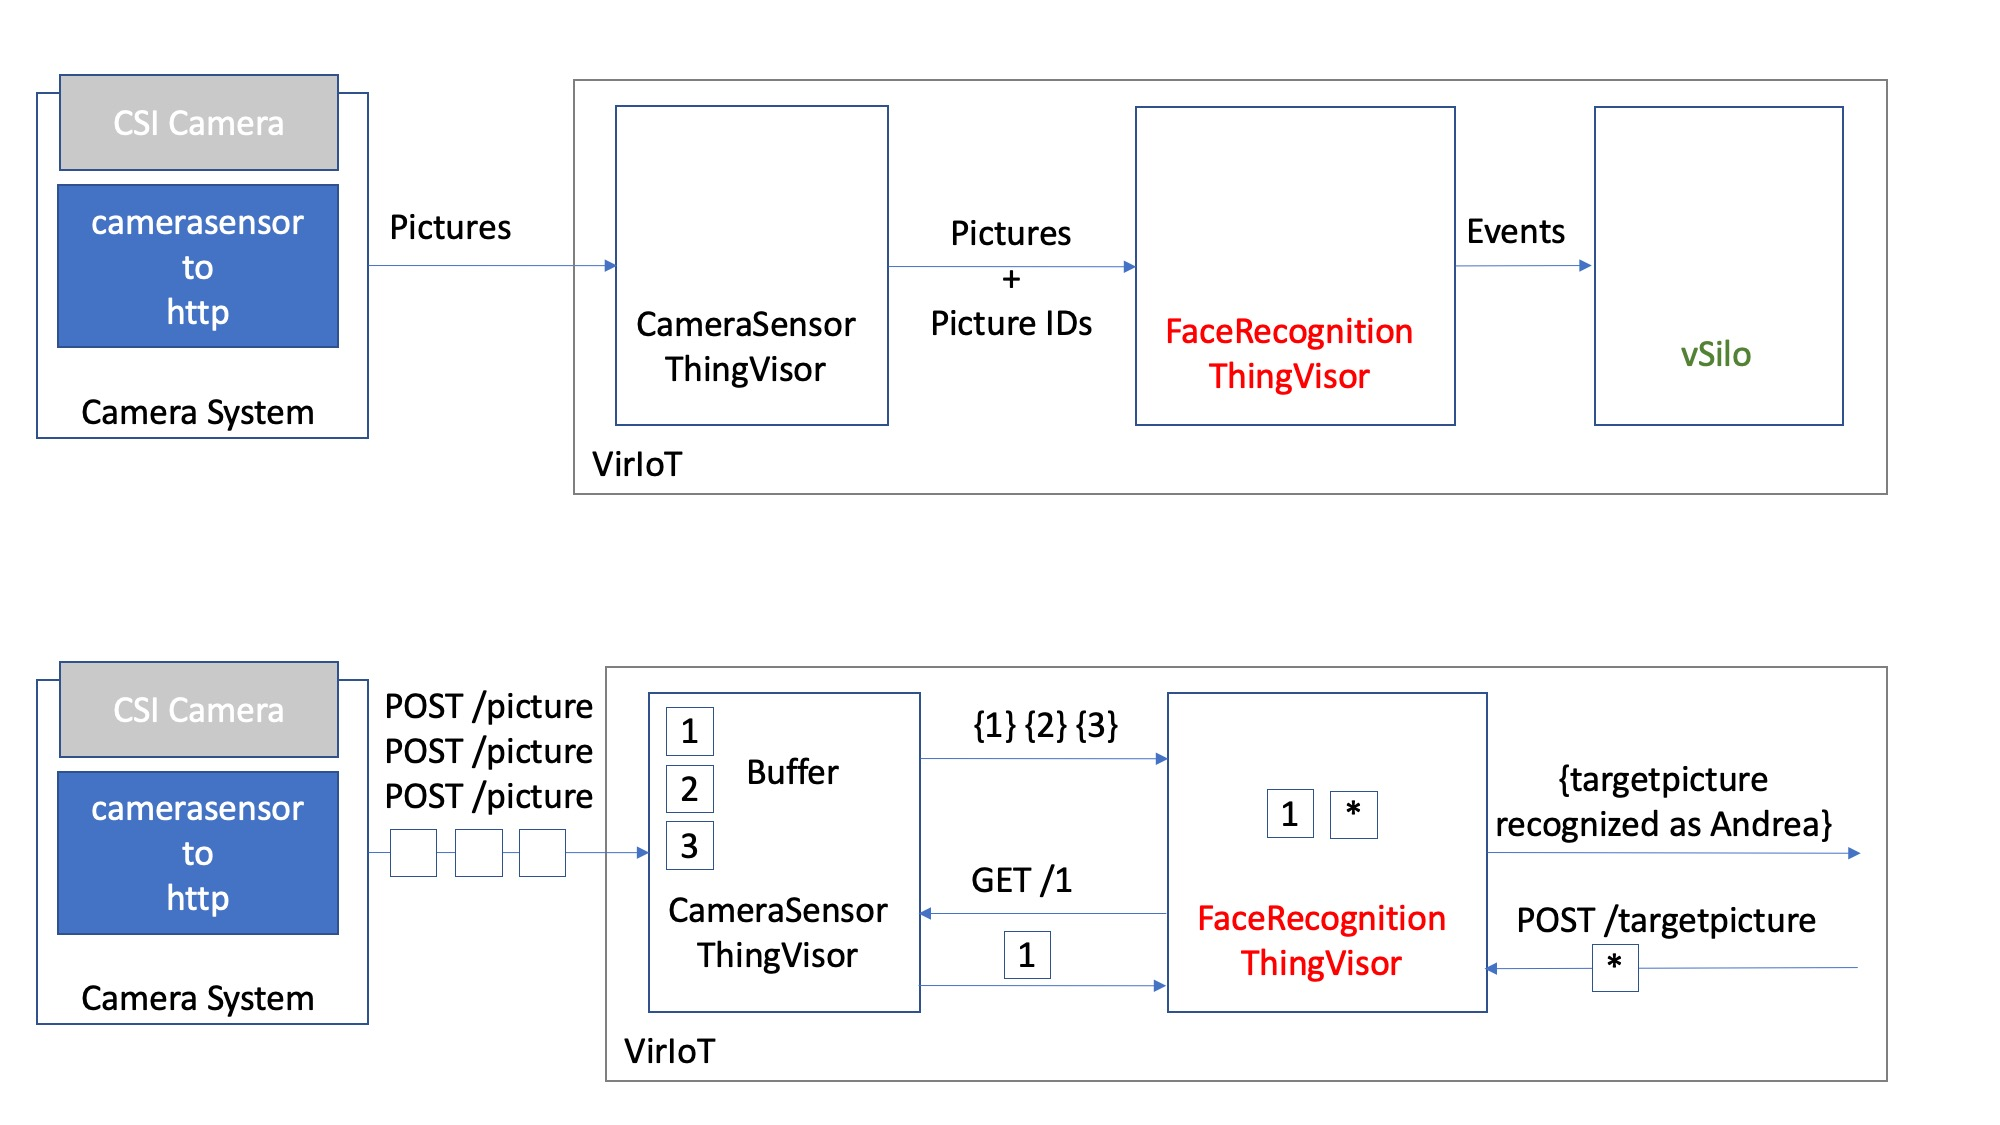
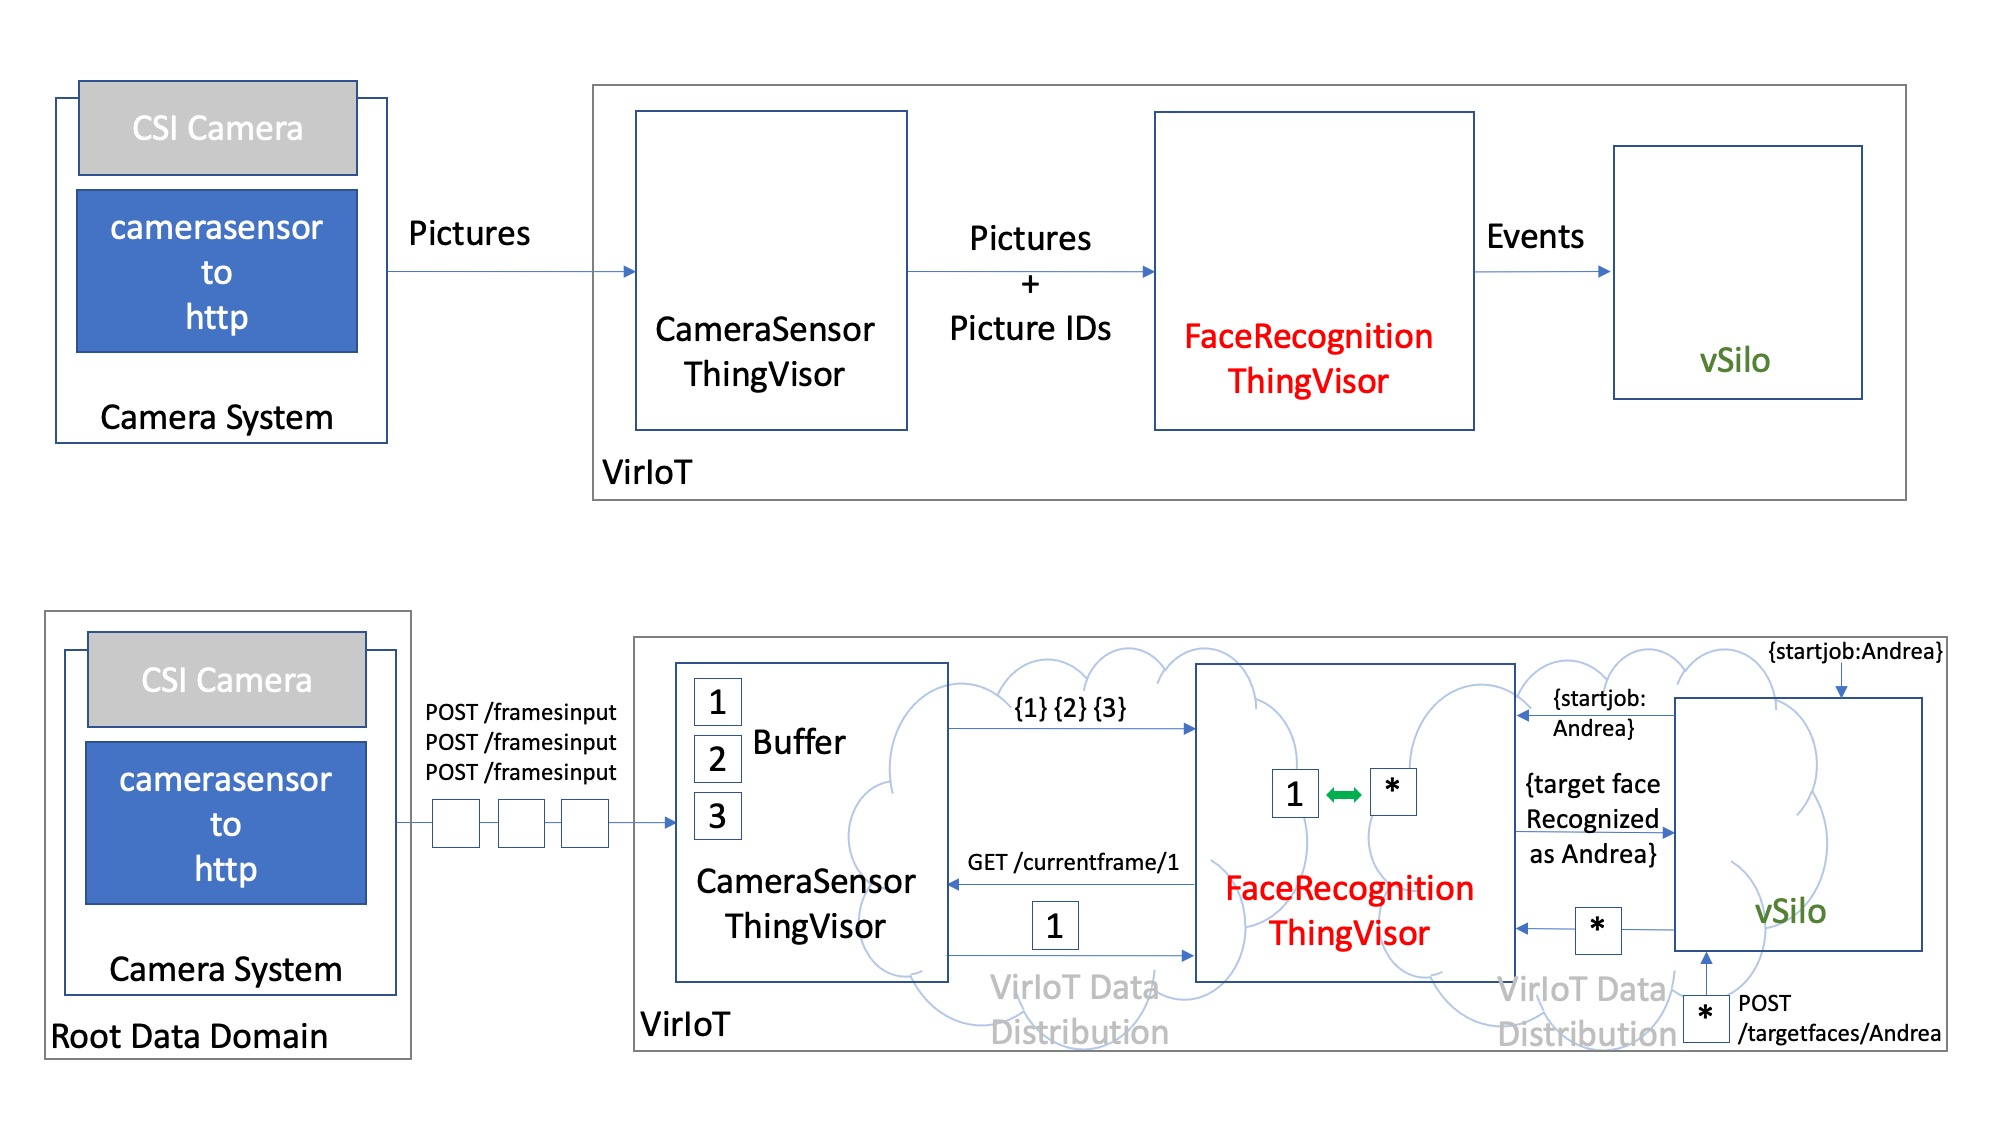
updated both picture of facerec and readme

diff --git a/Thingvisors/DockerThingVisor/ThingVisor_FaceRecognition/README.md b/Thingvisors/DockerThingVisor/ThingVisor_FaceRecognition/README.md
@@ -6,9 +6,13 @@ This ThingVisor allows to do face recognition with a camera system, and to virtu
 
 The following picture shows the face recognition architecture, which comprises the Camera System, the CameraSensor ThingVisor and the FaceRecognition ThingVisor.
 
+Overall, the Camera System sends to the CameraSensor TV every new video frame it captures from the Camera. The CameraSensor TV buffers the video frames and gives them unique identifiers. Whenever the FaceRecognition TV is ready to process a new video frame, it gets it by name, asking it to the CameraSensor TV. The FaceRecognition TV processes the frame by comparing it to a target picture of a person. If a match is found, an event is sent from the FaceRecognition TV to a vSilo (that hosts the IoT Broker and talks to an external Application).
+
+Users do not interact directly with the FaceRecognition ThingVisor. The whole process is driven via the User's vSilo, instead, as usual in VirIoT. Users POST target faces (to be matched) to the HTTP Broker running inside the vSilo. Moreover, they can act (using the usual VirIoT's actuation workflow) upon the face recognition process by starting (or deleting) a specific job recognition process, identifying it by name (of a target person, for example, or whatever name they assign to the job, "Andrea" in the picture below).
+
 ![Face Recognition architecture](facerec.jpg)
 
-Overall, the Camera System sends to the CameraSensor TV every new video frame it captures from the Camera. The CameraSensor TV buffers the video frames and gives them unique identifiers. Whenever the FaceRecognition TV is ready to process a new video frame, it gets it by name, asking it to the CameraSensor TV. The FaceRecognition TV processes the frame by comparing it to a target picture of a person. If a match is found, an event is sent from the FaceRecognition TV to a vSilo (that hosts the IoT Broker and talk to an external Application).
+The purpose of having the CameraSensor ThingVisor in between the Camera System and the FaceRecognition is that, in principle, several different ThingVisors, performing diverse tasks such as face recognition, object recognition, motion detection, etc..., can attach to the CameraSensor ThingVisor. They will act as downstream processors, each fetching a copy of the same video frame for different purposes. This avoids each processor fetching a separate copy of the current video frame from the Camera System, thus avoiding redundant network traffic from the Root Data Domain (where the Camera System lives) into VirIoT. Moreover, VirIoT's HTTP Data Distribution System is operating in between the upstream CameraSensor and the downstream ThingVisors, transparently caching all HTTP requests and responses, so that ThingVisors (and vSilos) that are requesting the same picture (by id) from the CameraSensor, will efficiently get it from the closest proxy.
 
 More specifically:
 
@@ -16,9 +20,9 @@ More specifically:
 
 - Connects to a CSI (Camera Serial Interface) Camera. The current implementation uses CV2 to capture video from a camera attached to a Jetson Nano board. 
 - Undistorts, compresses to jpeg, and scales down each video frame.
-- Sends each new video frame to the CameraSensor TV via HTTP POST.
+- Sends each new video frame to the CameraSensor TV via an HTTP POST request to the TV's ``/framesinput`` API.
 
-The Camera System is currently implemented as a python script responsible for compression and HTTP communication, which is called [camerasensor-to-http.py](../ThingVisor_CameraSensor/jetbot_scripts/camerasensor-to-http.py). It imports a python module, which is responsible for video capture, and is called [camera_mod.py](../ThingVisor_CameraSensor/jetbot_scripts/camera_mod.py). Both can be found in the scripts folder of the CameraSensor TV.
+The Camera System is currently implemented as a python script responsible for compression and HTTP communication, which is called [camerasensor-to-http.py](../ThingVisor_CameraSensor/jetbot_scripts/camerasensor-to-http.py). It, in turn, imports a python module, which is responsible for video capture, and is called [camera_mod.py](../ThingVisor_CameraSensor/jetbot_scripts/camera_mod.py). Both can be found in the scripts folder of the CameraSensor TV.
 
 ### The CameraSensor ThingVisor
 - Offers a REST interface to receive video frames, via HTTP POST.
@@ -32,25 +36,23 @@ The Camera System is currently implemented as a python script responsible for co
   $ echo {\"observedAt\":\"02-02-2021 14:34\"} > metadata.json
   $ curl -F "file=@currentframe.jpg" -F "json=@metadata.json" http://<CAMERASENSORTV_PUBLIC_IP>:<PORT_MAPPED_TO_5000>/framesinput
   ```
-- Buffers a certain (configurabile) amount of video frames, FIFO style, and it gives unique identifiers to them, upon arrival of each new frame.
-
-  The default size of the video buffer is 20, and it holds the jpeg compressed pictures in memory.
+- Buffers a certain (configurabile) amount of video frames, FIFO style, and it gives unique identifiers to them, upon arrival of each new frame. It buffers the jpeg compressed pictures in memory.
   
-  The size of the buffer is a configurabile parameter of the ThingVisor. It can be specified at creation time, when the TV is added to VirIoT, as in the following example, where a TV is added using the yaml that specifies a CameraSensor, the name "camerasensor-tv" is given to it, and the "buffersize" parameter is set to 30.
+  The size of the buffer is a configurabile parameter of the ThingVisor, named ``buffersize``. The default size of the video buffer is ``20``. It can be specified at creation time, when the TV is added to VirIoT, as in the following example, where a TV is added using the yaml that specifies a CameraSensor, the name "camerasensor-tv" is given to it, and the ``buffersize`` parameter is set to ``30``.
 
   ```bash
   $ f4i.py add-thingvisor -y ../yaml/thingVisor-cameraSensor-http.yaml -n camerasensor-tv -d "camera frames via http" -p '{"buffersize":30}' -z default
   ```
 
-  Alternatively, by using the update-thingvisor VirIoT command on a running TV, the "buffersize" parameter can be changed in real-time, as follows:
+  Alternatively, by using the update-thingvisor VirIoT command on a running instance of the TV, the ``buffersize`` parameter can be changed in real-time, as follows:
 
   ```bash
   $ f4i.py update-thingvisor -n camerasensor-tv -p '{"buffersize":40}'
   ```
 
-- Emits an event, representing context information about the video frame, in the form of a NGSI-LD Entity containing the picture's identifier, upon arrival of each new frame.
+- Offers a single vThing, named "sensor". This vThing, upon arrival of each new frame, emits an event representing context information about the received video frame, in the form of a NGSI-LD Entity containing the picture's identifier.
 
-  The NGSI-LD Entity emitted at each frame arrival is in "neutral format", as follows (assuming the ThingVisor's name is "camerasensor-tv"): each event/entity is of type "NewFrameEvent" and it has just one Property, named "frameIdentifier". The information about the timestamp of the video frame is dropped, as of now, since it is not needed for face recognition purposes.
+  The NGSI-LD Entity emitted at each frame arrival is represented in NGSI-LD "neutral format" (assuming the ThingVisor's name is "camerasensor-tv") by entity of type "NewFrameEvent". It has just one Property, named "frameIdentifier". The information about the timestamp of the video frame is dropped, as of now, since it is not needed for face recognition purposes. Here follows an example:
   ```
   {
     id : urn:ngsi-ld:camerasensor-tv:sensor
@@ -70,3 +72,115 @@ The Camera System is currently implemented as a python script responsible for co
   ```bash
   $ curl --output videoframe.jpg http://<CAMERASENSORTV_PUBLIC_IP>:<PORT_MAPPED_TO_5000>/currentframe/1623229264110-0
   ```
+
+### The FaceRecognition ThingVisor
+- It is designed so that it "chains" to an upstream "sensor" vThing implemented by a CameraSensor ThingVisor: upon chaining, it subscribes to Entities coming from the upstream CameraSensor's "sensor" vThing. Such Entities convey the identifiers of a stream of video frames buffered by the CameraSensor. FaceRecognition GETs the new frames at its convenience (thus operating at its own framerate, ususally different than the framerate the video frames are produced by the Camera System).
+
+  The rate that FaceRecognition uses to get frames from CameraSensor is a configurabile parameter of the TV, named ``fps``. Its default value is ``2``.
+
+  The name of the upstream vThing to chain to is a configurabile parameter as well, named ``upstream_vthingid``. By default, at startup, if no upstream vThing of a CameraSensor is specified, the FaceRecognition TV sits idle, waiting for an update command to specify it.
+
+  Both parameters can be specified at creation time, when the TV is added to VirIoT, as in the following example, where a TV is added using the yaml that specifies a FaceRecognition, the name "facerecognition-tv" is given to it, the ``upstream_vthingid`` parameter is set to ``camerasensor-tv/sensor`` (as it represents a vThing identifier, which in VirIoT is composed of ThingVisorName/vThingName), and the ``fps`` parameter is set to ``12``.
+
+  ```bash
+  $ f4i.py add-thingvisor -y ../yaml/thingVisor-faceRecognition.yaml -n "facerecognition-tv" -d "recognizes faces" -p '{"fps":12, "upstream_vthingid":"camerasensor-tv/sensor"}' -z default
+  ```
+
+  Alternatively, by using the update-thingvisor VirIoT command on a running instance of the TV, both parameters (either one-by-one or together) can be changed in real-time, as follows:
+
+  ```bash
+  $ f4i.py update-thingvisor -n facerecognition-tv -p '{"upstream_vthingid":"camerasensor-tv/sensor"}'
+  $ f4i.py update-thingvisor -n facerecognition-tv -p '{"fps":6}'
+  ```
+
+- Offers a single vThing, named "detector". The "detector" vThing does not produce any information (in the form of NGSI-LD Entities) on its own. Thus, it is not a sensor, rather an actuator. Specifically, it represents an actuator that is activated by users via ``startjob`` commands, that need to have a QoS of 2, meaning the command does not terminate immediately with a given result, but status of the command is going to be continuously updated by the actuator. The job is given a name by the user, and the ``startjob`` command is issued to the actuator. Once the job is started via its command, the "detector" updates the command status whenever a matching face is detected. The updated status embeds links to the video frame that matched, to the original picture of the face, and to the corresponding job's name. Thus, several jobs can be started and the status queue will receive a stream of updates (each possibly overwriting the previous update, depending on the specific IoT Broker that receives the updates).
+
+  In parallel and asynchronously to starting jobs, users have to POST target pictures of faces they want to be recognized. Such target pictures are POSTed under a given name that has to match the name of a corresponding job. Pictures can be POSTed without a corresponding job being started yet; a job can be started without targets. As soon as both a job and target pictures, with the same name, are present in the "detector", it starts sending back updates to the ``startjob`` command status.
+
+  More specifically, the "detector" vThing implemented by the FaceRecognition TV offers two commands:
+
+  - ``startjob`` command.
+
+  An example JSON object to send to the ``startjob`` command:
+  ```
+  {"cmd-id":"xaxaxa","cmd-qos":2,"cmd-value":{"job":"123456"}}
+  ```
+  - ``deletejob`` command, that is used to remove all pictures for a given job name, and to stop the corresponding recognition process.
+
+  Thus, the "detector" vThing, being an actuator only, is represented by an NGSI-LD Entity having just properties that are related to the above commands. Its id is "urn:ngsi-ld:facerecognition-tv:detector" (assuming the ThingVisor is named "facerecognition-tv"), and its type is "FaceRecognitionEvent". Here follows an example:
+```
+{
+  "id": "urn:ngsi-ld:facerecognition-tv:detector",
+  "type": "FaceRecognitionEvent",
+  "commands": {
+    "value": [
+      "startjob",
+      "deletejob"
+    ],
+    "type": "Property"
+  },
+  "startjob": {
+    "value": {
+      "cmd-id": "xaxaxa",
+      "cmd-qos": 2,
+      "cmd-value": {
+        "job": "123456"
+      }
+    },
+    "type": "Property"
+  },
+  "startjob-status": {
+    "value": {
+      "cmd-id": "xaxaxa",
+      "cmd-nuri": "viriot://vSilo/tenant1_silongsildorionld1-eu/data_in",
+      "cmd-qos": 2,
+      "cmd-value": {
+        "job": "123456"
+      },
+      "cmd-status": {
+        "job": "123456",
+        "name": "pippo",
+        "original-uri": "/media/60ba4b6a5faca138c398b3d4",
+        "recognized-uri": "media/60ba4b7b5faca138c398b3e8"
+      }
+    },
+    "type": "Property"
+  },
+  "startjob-result": {
+    "value": {},
+    "type": "Property"
+  },
+  "deletejob": {
+    "value": {},
+    "type": "Property"
+  },
+  "deletejob-status": {
+    "value": {},
+    "type": "Property"
+  },
+  "deletejob-result": {
+    "value": {},
+    "type": "Property"
+  }
+}
+```
+
+- Offers a REST interface to insert target pictures by their job identifer and person name, via HTTP POST, and to retrieve information about them, via HTTP GET.
+
+- Offers a REST interface to fetch pictures their identier, via HTTP GET.
+
+
+### The vSilo
+- Target pictures of faces to be matched against the incoming video frames are POSTed by Users to the vSilo's HTTP Broker. The HTTP Broker running inside the vSilo acts as a proxy to the HTTP REST interface offered by the FaceRecognition ThingVisor, which is not intended for direct access from Users. Thus the vSilo's HTTP Broker acts as the only entry point for Users (and Applications) to the face recognition process.
+
+## How to run it
+
+### Running the Camera System
+
+### Running the CameraSensor ThingVisor
+Set endpoint to make the HTTP Data Distribution able to proxy the /framesinput and /currentframe APIs. This way, the FaceRecognition TV (and other ThingVisors as well) can GET video frames using the CameraSensor's service name, globally within VirIoT, exploiting efficien caching and mukticast distribution of the video frames.
+
+### Running the FaceRecognition ThingVisor
+Set endpoint to make the HTTP Data Distribution able to proxy the /targetfaces and /recognizedfaces APIs.
+
+### Adding and using the "detector" vThing in vSilo
